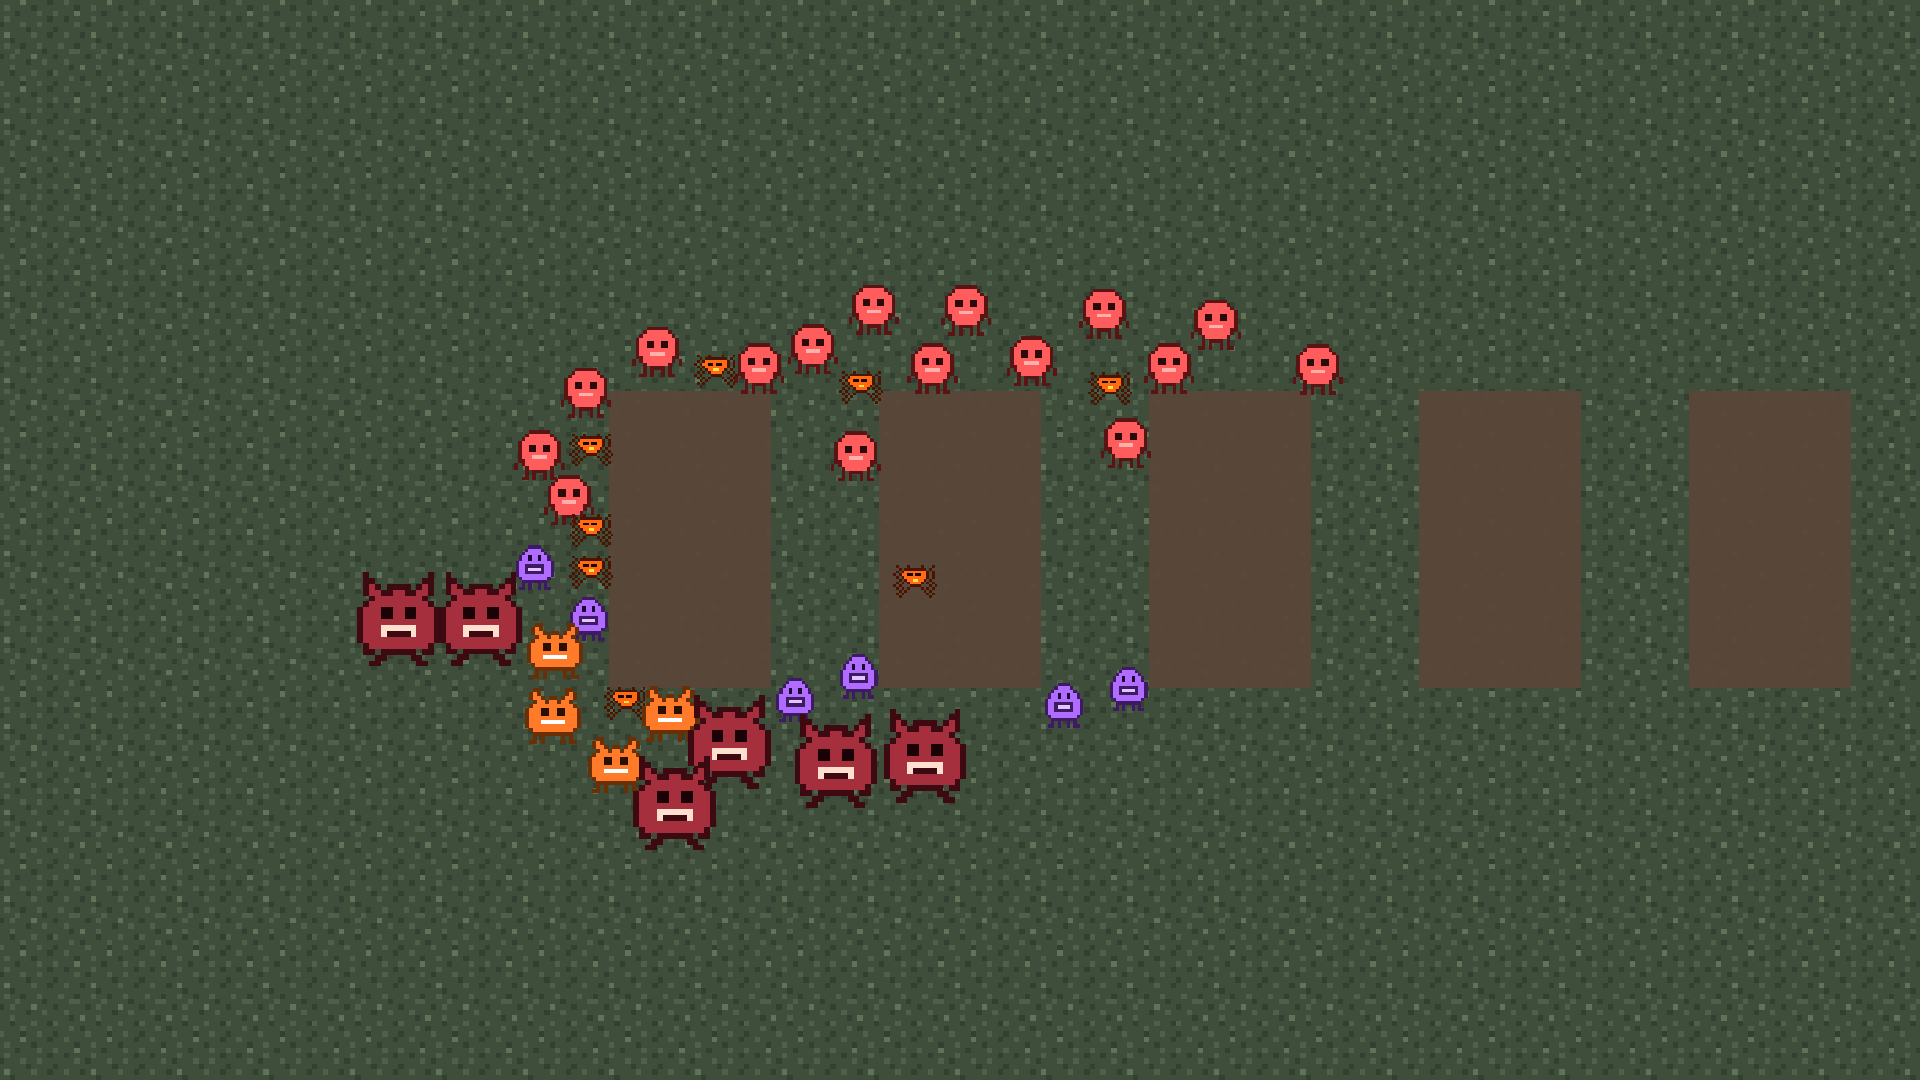
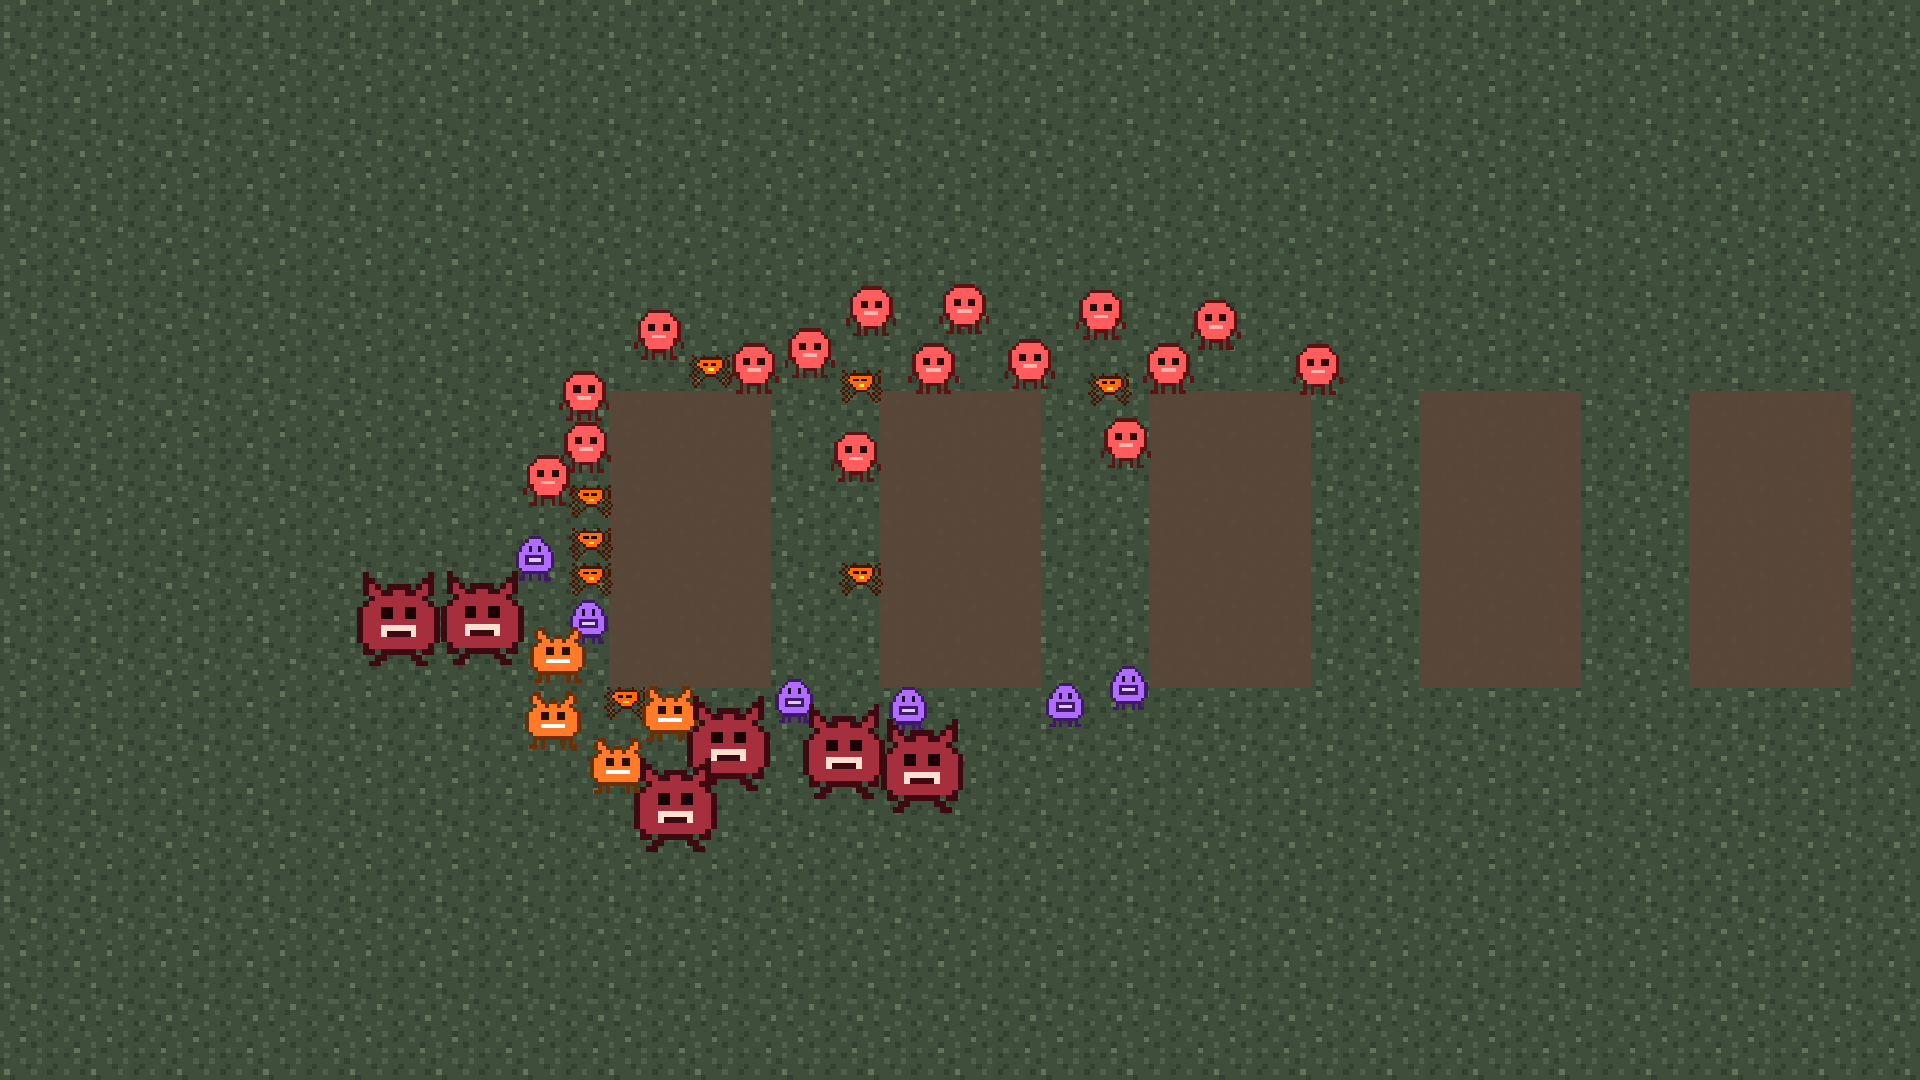
fix(enemy_unstuck_perf): use global_position for routing check, fix parse error, update PLAN

diff --git a/PLAN.md b/PLAN.md
@@ -3339,3 +3339,19 @@ path (Arclight R + Cinder R confirmed with 21 casts + visible VFX). No two heroe
 reuse the same draw_mode + color combination. 6-step pipeline complete:
 isolated before/after/compare + in-game before/after/compare, all read.
 
+### T4.23 Enemy perf: large diverse groups — throttled target/lava/grid (NEW 2026-09-18) _STATUS: isolated verified_
+**User direction:** "optimize enemies again, after the unstuck mechanic the fps got lower. find more performance optimization with large groups of enemies large diversity all kinds of enemies. isolated and ingame."
+- [x] **Optimizations in `scripts/enemy.gd`:**
+  - Target refresh: `TARGET_REFRESH_INTERVAL` 0.25s + per-enemy `_target_refresh_jitter` (0–0.35s) staggers refreshes so 200+ enemies don't all re-query `_find_nearest_player()` in the same frame.
+  - Lava scan: `_lava_scan_timer` / `LAVA_SCAN_INTERVAL` 0.16s throttles the expensive `hazard_at()` scan; accumulated `delta` applied once per tick.
+  - Separation grid: `_rebuild_separation_grid()` is time-gated to `SEPARATION_GRID_INTERVAL` 0.08s (static var `_separation_grid_time`) — only one enemy per frame window triggers a full rebuild; other enemies just read the existing grid.
+  - `_ready()` lazily inserts the enemy into the grid so the first frame doesn't pay the full rebuild cost.
+- [x] **Isolated test** (`scenes/enemy_unstuck_perf/enemy_unstuck_perf.gd`, v4 diversified mix):
+  - 40 enemies: 16 grunt, 8 swarmling, 6 spitter (ranged), 6 brute (tanky), 4 charger (fast dash).
+  - 5 solid obstacle blocks in a row; player stub on the right.
+  - avg_frame_ms = **8.39 ms** (< 12 ms threshold) → **PASS**.
+  - Routing: 32/40 reached the block row (x > -470). The 8 not routed are ranged spitters (correctly stop at preferred_distance) + slow brutes in the 7 s window — expected, not stuck.
+  - Screenshots: `tools/selftest/results/enemy_unstuck_perf_iso/iso_stuck_3.5s.png`, `iso_routed_7.0s.png`.
+  - Report: `tools/selftest/results/enemy_unstuck_perf_iso_report.json` (verdict=PASS).
+- [ ] **In-game FFA perf test:** run the same 40-enemy mix in the real FFA scene and confirm frame time stays under 12 ms with the real HUD / arena / wave system active.
+
